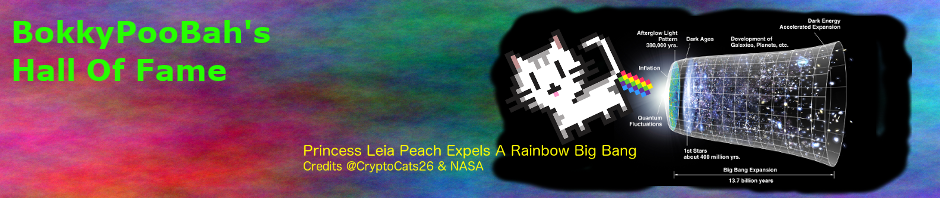
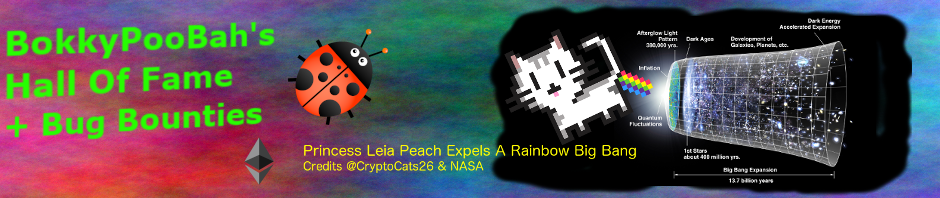
WIP

diff --git a/README.md b/README.md
@@ -4,6 +4,8 @@
 
 <hr />
 
+# Hall Of Fame
+
 1. Feb 05 2017 - [/u/JonnyLatte](https://www.reddit.com/user/JonnyLatte), the original TokenTraderFactory author, has found a bug in the TokenTraderFactory code when it interacts with the [🦄 ‐ Unicorn](https://github.com/bokkypoobah/TokenTrader/wiki/🦄-‐-Unicorn) token where the natural unit is 1.
 
     Here are the [diffs](https://github.com/bokkypoobah/TokenTrader/commit/376cdb1feccc4fb613daff9d6b0130b70cc942ce) of the fixed bug in in `TokenTraderFactory` and `TokenSellerFactory`
@@ -29,3 +31,25 @@
   [#5 Incorrect parameter passed to ApproveAndCallFallBack() function](https://github.com/bokkypoobah/BokkyPooBahsTokenTeleportationServiceSmartContract/issues/5) and has been awarded [15 ETH](https://etherscan.io/tx/0x7f8383321d39087f45a9fe3a113ae5fdf63905bf9ff06d5b98994841e18772a0).
 
 5. {{Your Name Here?}}
+
+<br />
+
+<hr />
+
+# Active Bug Bounties
+
+BokkyPooBah is offering a 30 ETH bug bounty across the smart contracts in the following projects:
+
+* [BokkyPooBah's Gas-Efficient Solidity DateTime Library](https://github.com/bokkypoobah/BokkyPooBahsDateTimeLibrary)
+* [BokkyPooBah's Red-Black Binary Search Tree Library](https://github.com/bokkypoobah/BokkyPooBahsRedBlackTreeLibrary)
+* [BokkyPooBah's Token Teleportation Service Smart Contract](https://github.com/bokkypoobah/BokkyPooBahsTokenTeleportationServiceSmartContract)
+
+Additionally any contributions to the 
+
+<br />
+
+<br />
+
+Enjoy!
+
+(c) BokkyPooBah / Bok Consulting Pty Ltd - Feb 17 2019. The MIT Licence.
